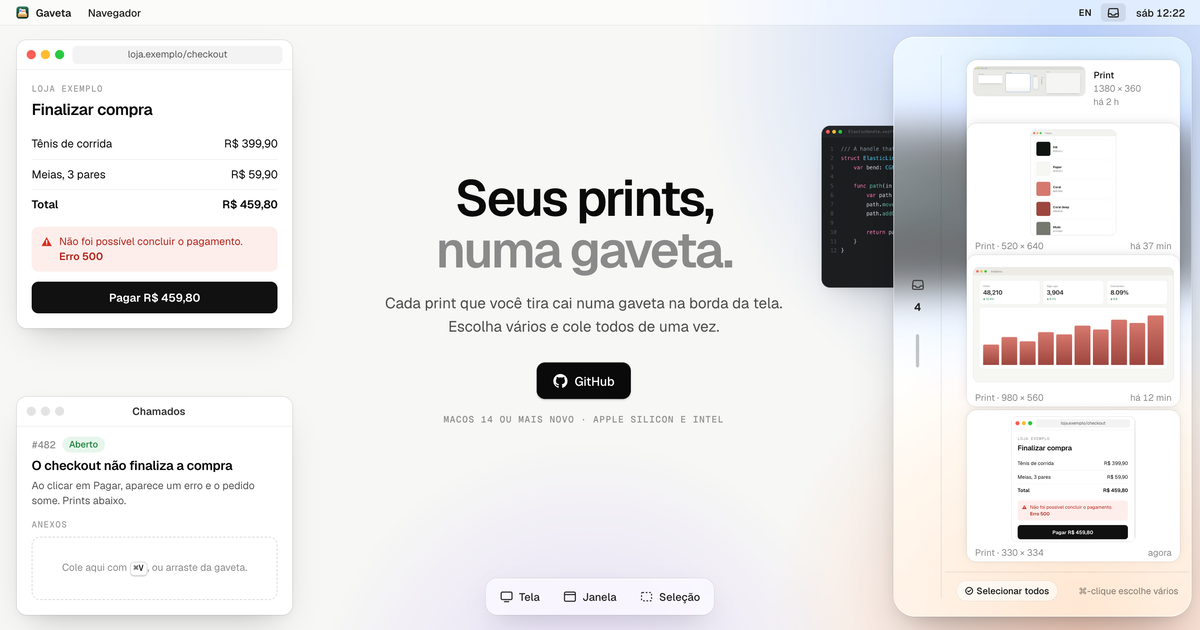
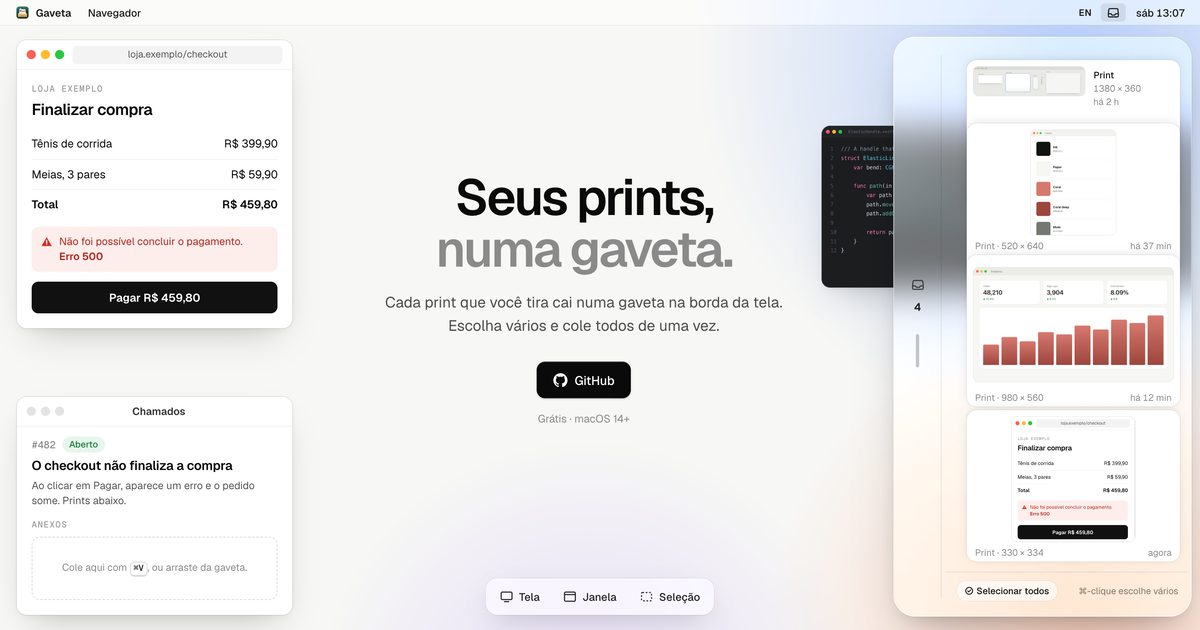
Landing: a linha do macOS vira só "Grátis · macOS 14+"

diff --git a/site/index.html b/site/index.html
@@ -119,7 +119,7 @@ kbd {
 .botao:hover { background: #262626; }
 .botao:active { transform: scale(0.96); }
 .botao svg { width: 17px; height: 17px; }
-.nota { margin: 1rem 0 0; font: 500 0.6875rem/1.6 var(--mono); letter-spacing: 0.08em; text-transform: uppercase; color: var(--tinta-muda); }
+.nota { margin: 0.9rem 0 0; font-size: 0.8125rem; color: var(--tinta-muda); }
 
 /* ── windows ────────────────────────────────────────────────────────────── */
 .janela {
@@ -441,7 +441,7 @@ kbd {
       <svg viewBox="0 0 16 16" aria-hidden="true"><path fill="currentColor" d="M8 0C3.58 0 0 3.58 0 8c0 3.54 2.29 6.53 5.47 7.59.4.07.55-.17.55-.38 0-.19-.01-.82-.01-1.49-2.01.37-2.53-.49-2.69-.94-.09-.23-.48-.94-.82-1.13-.28-.15-.68-.52-.01-.53.63-.01 1.08.58 1.23.82.72 1.21 1.87.87 2.33.66.07-.52.28-.87.51-1.07-1.78-.2-3.64-.89-3.64-3.95 0-.87.31-1.59.82-2.15-.08-.2-.36-1.02.08-2.12 0 0 .67-.21 2.2.82.64-.18 1.32-.27 2-.27.68 0 1.36.09 2 .27 1.53-1.04 2.2-.82 2.2-.82.44 1.1.16 1.92.08 2.12.51.56.82 1.27.82 2.15 0 3.07-1.87 3.75-3.65 3.95.29.25.54.73.54 1.48 0 1.07-.01 1.93-.01 2.2 0 .21.15.46.55.38A8.01 8.01 0 0 0 16 8c0-4.42-3.58-8-8-8z"/></svg>
       GitHub
     </a>
-    <p class="nota">macOS 14 ou mais novo · Apple silicon e Intel</p>
+    <p class="nota">Grátis · macOS 14+</p>
   </section>
 
   <article class="janela j-loja" id="loja" data-app="Navegador" aria-label="Navegador: a loja deu erro no pagamento">

diff --git a/site/en/index.html b/site/en/index.html
@@ -114,7 +114,7 @@ kbd {
 .botao:hover { background: #262626; }
 .botao:active { transform: scale(0.96); }
 .botao svg { width: 17px; height: 17px; }
-.nota { margin: 1rem 0 0; font: 500 0.6875rem/1.6 var(--mono); letter-spacing: 0.08em; text-transform: uppercase; color: var(--tinta-muda); }
+.nota { margin: 0.9rem 0 0; font-size: 0.8125rem; color: var(--tinta-muda); }
 
 /* ── windows ────────────────────────────────────────────────────────────── */
 .janela {
@@ -436,7 +436,7 @@ kbd {
       <svg viewBox="0 0 16 16" aria-hidden="true"><path fill="currentColor" d="M8 0C3.58 0 0 3.58 0 8c0 3.54 2.29 6.53 5.47 7.59.4.07.55-.17.55-.38 0-.19-.01-.82-.01-1.49-2.01.37-2.53-.49-2.69-.94-.09-.23-.48-.94-.82-1.13-.28-.15-.68-.52-.01-.53.63-.01 1.08.58 1.23.82.72 1.21 1.87.87 2.33.66.07-.52.28-.87.51-1.07-1.78-.2-3.64-.89-3.64-3.95 0-.87.31-1.59.82-2.15-.08-.2-.36-1.02.08-2.12 0 0 .67-.21 2.2.82.64-.18 1.32-.27 2-.27.68 0 1.36.09 2 .27 1.53-1.04 2.2-.82 2.2-.82.44 1.1.16 1.92.08 2.12.51.56.82 1.27.82 2.15 0 3.07-1.87 3.75-3.65 3.95.29.25.54.73.54 1.48 0 1.07-.01 1.93-.01 2.2 0 .21.15.46.55.38A8.01 8.01 0 0 0 16 8c0-4.42-3.58-8-8-8z"/></svg>
       GitHub
     </a>
-    <p class="nota">macOS 14 or later · Apple silicon and Intel</p>
+    <p class="nota">Free · macOS 14+</p>
   </section>
 
   <article class="janela j-loja" id="loja" data-app="Browser" aria-label="Browser: the shop failed to take the payment">

diff --git a/site/vidro/pagina.html b/site/vidro/pagina.html
@@ -21,7 +21,7 @@
       <svg viewBox="0 0 16 16" aria-hidden="true"><path fill="currentColor" d="M8 0C3.58 0 0 3.58 0 8c0 3.54 2.29 6.53 5.47 7.59.4.07.55-.17.55-.38 0-.19-.01-.82-.01-1.49-2.01.37-2.53-.49-2.69-.94-.09-.23-.48-.94-.82-1.13-.28-.15-.68-.52-.01-.53.63-.01 1.08.58 1.23.82.72 1.21 1.87.87 2.33.66.07-.52.28-.87.51-1.07-1.78-.2-3.64-.89-3.64-3.95 0-.87.31-1.59.82-2.15-.08-.2-.36-1.02.08-2.12 0 0 .67-.21 2.2.82.64-.18 1.32-.27 2-.27.68 0 1.36.09 2 .27 1.53-1.04 2.2-.82 2.2-.82.44 1.1.16 1.92.08 2.12.51.56.82 1.27.82 2.15 0 3.07-1.87 3.75-3.65 3.95.29.25.54.73.54 1.48 0 1.07-.01 1.93-.01 2.2 0 .21.15.46.55.38A8.01 8.01 0 0 0 16 8c0-4.42-3.58-8-8-8z"/></svg>
       GitHub
     </a>
-    <p class="nota">macOS 14 ou mais novo · Apple silicon e Intel</p>
+    <p class="nota">Grátis · macOS 14+</p>
   </section>
 
   <article class="janela j-loja" id="loja" data-app="Navegador" aria-label="Navegador: a loja deu erro no pagamento">

diff --git a/site/vidro/vidro.css b/site/vidro/vidro.css
@@ -90,7 +90,7 @@ kbd {
 .botao:hover { background: #262626; }
 .botao:active { transform: scale(0.96); }
 .botao svg { width: 17px; height: 17px; }
-.nota { margin: 1rem 0 0; font: 500 0.6875rem/1.6 var(--mono); letter-spacing: 0.08em; text-transform: uppercase; color: var(--tinta-muda); }
+.nota { margin: 0.9rem 0 0; font-size: 0.8125rem; color: var(--tinta-muda); }
 
 /* ── windows ────────────────────────────────────────────────────────────── */
 .janela {
